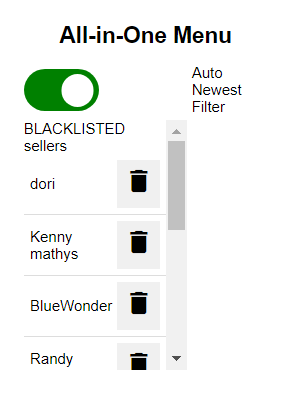
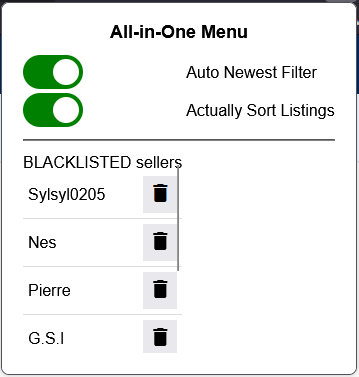
added real sort listing functionality

diff --git a/src/scripts/content-script.js b/src/scripts/content-script.js
@@ -1,39 +1,120 @@
-async function removeListings() {
-  let viewListing = document.getElementsByClassName(
-    "hz-Listings hz-Listings--list-view"
-  )[0];
+const ul = document.querySelector(".hz-Listings");
 
-  if (viewListing == null) {
-    // elements not loaded yet
-    return;
-  }
+// make sure to dynamically set the listings back to white when they are removed from the blaclist
+chrome.runtime.onMessage.addListener((message) => {
+  if (message.command === "removeFromBlacklist") {
+    const receivedSellerName = message.sellerName;
 
-  let allListings = Array.from(
-    viewListing.getElementsByClassName("hz-Listing")
-  );
+    // Select all the listings that might have been marked red due to this seller
+    const listings = ul.querySelectorAll("li.hz-Listing");
+    for (let li of listings) {
+      if (li.offsetParent === null || li.style.backgroundColor == "white") {
+        continue; // Skip if the listing is invisible or already white
+      }
 
-  for (const listing of allListings) {
-    addBlackListSellerButton(listing);
-
-    if (await isAd(listing)) {
-      listing.style.backgroundColor = "red";
-    } else if (listing.style.backgroundColor === "red") {
-      listing.style.backgroundColor = "white";
+      let currentListingSellerName = li.querySelector(
+        ".hz-Listing-seller-name"
+      )?.textContent;
+      if (
+        currentListingSellerName &&
+        currentListingSellerName === receivedSellerName
+      ) {
+        // Reset the background color to white
+        li.style.backgroundColor = "white";
+      }
     }
   }
+});
+
+// TODO: if reordering the page is disabled, we shouldn't have to get all the IDs and everything should go much faster
+async function initializeListingsByMenuSettings() {
+  // if actual order is enabled, add banner with notification
+  // TODO: make this toggleable
+  chrome.storage.sync.get("realSortEnabled", (data) => {
+    const realSortToggleEnabled = data.realSortEnabled;
+    if (realSortToggleEnabled) {
+      const banner = document.createElement("div");
+      banner.classList.add("reordering-banner");
+      banner.style.backgroundColor = "orange";
+      banner.textContent = "⌛ Actually reordering... (can take up to 5 secs)";
+      ul.insertBefore(banner, ul.firstChild);
+    }
+  });
+
+  let listings = ul.querySelectorAll("li.hz-Listing");
+
+  let listingsIdMap = new Map();
+
+  let invisibleListingsCounter = 0;
+  for (let li of listings) {
+    if (li.offsetParent === null) {
+      invisibleListingsCounter += 1;
+      continue; // Skip if the listing is not visible
+    }
+
+    // we add a blacklist button to the listing
+    addBlackListSellerButton(li);
+
+    // check if ad, if so, color it red
+    if (await isAd(li)) {
+      li.style.backgroundColor = "red";
+    } else if (li.style.backgroundColor === "red") {
+      li.style.backgroundColor = "white";
+    }
+
+    // get ID from href
+    const anchor = li.querySelector("div > div > a");
+    if (!anchor.href) {
+      anchor.dispatchEvent(new MouseEvent("mouseover", { bubbles: true }));
+      // wait for hover effect to load href if it's dynamic
+      await new Promise((r) => setTimeout(r, 200));
+      if (!anchor.href) {
+        console.warn(
+          `Still no href found!\nOrdering won't work if not all listings have an ID!`
+        );
+      }
+    }
+
+    // TODO: verify that every ID starts with "/m" or "/a"
+    // because if some start with m while other with a, the ordering won't work correctly
+    const match = anchor.href.match(/\/[ma](\d+)-/);
+    listingsIdMap.set(match[1], li); // Add the ID to the Set
+  }
+
+  // resort listings if enabled...
+  chrome.storage.sync.get("realSortEnabled", (data) => {
+    const realSortToggleEnabled = data.realSortEnabled;
+    if (realSortToggleEnabled) {
+      // order by ID (oldest listing first)
+      orderedListings = new Map(
+        [...listingsIdMap].sort((a, b) => String(a[0]).localeCompare(b[0]))
+      );
+      orderedListings.values().forEach((li) => {
+        // insert it right after the "ordering" banner
+        ul.insertBefore(li, ul.firstChild.nextSibling);
+      });
+
+      // DONE message in banner
+      let reorderingBanner = ul.querySelector(".reordering-banner");
+      if (reorderingBanner != null) {
+        reorderingBanner.textContent = "✅ DONE reordering!";
+        reorderingBanner.style.backgroundColor = "greenyellow";
+        // wait 3 secs before removing the banner
+        setTimeout(() => {
+          reorderingBanner.remove();
+        }, 3000);
+      }
+    }
+  });
 }
 
-// HELPER METHODS
-
+// INDIVUAL LISTING METHODS
 function addBlackListSellerButton(listingElem) {
-  let sellerInfoElem = listingElem.getElementsByClassName(
-    "hz-Listing--sellerInfo"
-  )[0];
+  // adds inplace blacklist button to the listing element
+  let sellerInfoElem = listingElem.querySelector(".hz-Listing--sellerInfo");
 
-  if (
-    sellerInfoElem.getElementsByClassName("seller-blacklist-container")[0] !=
-    null
-  ) {
+  // don't add the button if it already exists
+  if (sellerInfoElem.querySelector(".seller-blacklist-container") != null) {
     return;
   }
 
@@ -46,20 +127,40 @@ function addBlackListSellerButton(listingElem) {
   submitBlacklistLinkElem.type = "submit";
 
   submitBlacklistLinkElem.onclick = () => {
-    let sellerName = sellerInfoElem.getElementsByClassName(
-      "hz-Listing-seller-name"
-    )[0].textContent;
+    let sellerName = sellerInfoElem.querySelector(
+      ".hz-Listing-seller-name"
+    ).textContent;
+    if (!sellerName) return;
+
+    // color all listings in ul with that seller name red
+    const listings = ul.querySelectorAll("li.hz-Listing");
+    for (let li of listings) {
+      if (li.offsetParent === null) {
+        continue; // Skip if the listing is not visible
+      }
+      let currentListingSellerName = li.querySelector(
+        ".hz-Listing-seller-name"
+      )?.textContent;
+      if (
+        currentListingSellerName &&
+        currentListingSellerName === sellerName &&
+        li.style.backgroundColor != "red"
+      ) {
+        // could already be red because of it being an ad
+        // set background color to red
+        li.style.backgroundColor = "red";
+      }
+    }
     // append blacklisted seller
     chrome.storage.sync.get("blacklistedSellers", (result) => {
       let blacklistedSellers = result.blacklistedSellers || [];
 
       // prevent duplicates
-      if (blacklistedSellers.indexOf(sellerName) !== -1) {
-        return;
+      if (!blacklistedSellers.includes(sellerName)) {
+        chrome.storage.sync.set({
+          blacklistedSellers: [...blacklistedSellers, sellerName],
+        });
       }
-
-      blacklistedSellers.push(sellerName);
-      chrome.storage.sync.set({ blacklistedSellers: blacklistedSellers });
     });
   };
 
@@ -73,47 +174,25 @@ function addBlackListSellerButton(listingElem) {
   );
 }
 
-// helper methods to filter
 async function isAd(listingElem) {
   return (
     isTopAdvertentie(listingElem) || (await isSellerBlacklisted(listingElem))
   );
 }
 
-// helper method
-function getAllListingInfo() {
-  let allListings = viewListing.getElementsByClassName("hz-Listing");
-  allListings.forEach((listing, index) => {
-    console.log(
-      `i: ${index}\ntitle: ${getTitleOfListing(
-        listing
-      )}\nisTopAdvertentie: ${isTopAdvertentie(listing)}`
-    );
-  });
-}
-
-// helper methods for given elem
-function getTitleOfListing(listingElem) {
-  let title =
-    listingElem.getElementsByClassName("hz-Listing-title")[0].textContent;
-  return title;
-}
-
 function isTopAdvertentie(listingElement) {
-  const topAdvertentieText = listingElement.getElementsByClassName(
-    "hz-Listing-priority hz-Listing-priority--all-devices"
-  )[0].textContent;
+  const topAdvertentieText = listingElement.querySelector(
+    ".hz-Listing-priority.hz-Listing-priority--all-devices"
+  ).textContent;
 
   return topAdvertentieText == "Topzoekertje";
 }
 
 async function isSellerBlacklisted(listingElem) {
-  let sellerInfoElem = listingElem.getElementsByClassName(
-    "hz-Listing--sellerInfo"
-  )[0];
-  const sellerName = sellerInfoElem.getElementsByClassName(
-    "hz-Listing-seller-name"
-  )[0].textContent;
+  let sellerInfoElem = listingElem.querySelector(".hz-Listing--sellerInfo");
+  const sellerName = sellerInfoElem.querySelector(
+    ".hz-Listing-seller-name"
+  ).textContent;
 
   const res = new Promise(function (resolve, _) {
     chrome.storage.sync.get({ blacklistedSellers: [] }, function (result) {
@@ -125,4 +204,7 @@ async function isSellerBlacklisted(listingElem) {
   return bls.indexOf(sellerName) !== -1;
 }
 
-setInterval(removeListings, 500);
+// we wait a second before initializing, because an adblocker & the website might still be dynamically editing elements
+setTimeout(() => {
+  initializeListingsByMenuSettings();
+}, 1000); // TODO: on slower loading, this might even be too soon

diff --git a/src/popup/all-in-one-menu.js b/src/popup/all-in-one-menu.js
@@ -13,6 +13,40 @@ document.addEventListener("DOMContentLoaded", () => {
     });
   });
 
+  // update real sort when toggle is clicked
+  const realSortToggle = document.getElementById("real-sort-toggle");
+  realSortToggle.addEventListener("change", () => {
+    const isRealSortEnabled = realSortToggle.checked;
+
+    chrome.storage.sync.set({ realSortEnabled: isRealSortEnabled }, () => {
+      // TODO: make the alert fit the menu when it appears / cleaner
+
+      // get tr element which contains a real-sort-toggle id element
+      const toggleElem = document
+        .querySelector("#real-sort-toggle")
+        .closest("tr");
+      let refreshAlertBanner = document.createElement("div");
+      let trElem = document.createElement("tr");
+      trElem.classList.add("tr-alert-banner");
+      let tdElem = document.createElement("td");
+      // colspan 2 to make it full width
+      tdElem.setAttribute("colspan", "2");
+      tdElem.classList.add("td-alert-banner");
+      refreshAlertBanner.classList.add("refresh-alert-banner");
+      refreshAlertBanner.style.backgroundColor = "orange";
+      refreshAlertBanner.textContent =
+        "Refresh the page to apply the sorting changes!";
+      toggleElem.parentNode.insertBefore(
+        refreshAlertBanner,
+        toggleElem.nextSibling
+      );
+      // show this banner only 3 seconds
+      setTimeout(() => {
+        refreshAlertBanner.remove();
+      }, 3000);
+    });
+  });
+
   // set blacklisted sellers list
 
   chrome.storage.sync.get("blacklistedSellers", (res) => {
@@ -26,6 +60,20 @@ document.addEventListener("DOMContentLoaded", () => {
       newBlacklistedSellerElem.textContent = sellerName;
       const removeBtn = document.createElement("button");
       removeBtn.onclick = () => {
+        // make background of listing white again if it was red on 2dehands
+        // we're only sending the message to tabs that have the listener to handle these messages
+        chrome.tabs.query(
+          { url: "https://www.2dehands.be/q/*" },
+          function (tabs) {
+            for (let tab of tabs) {
+              chrome.tabs.sendMessage(tab.id, {
+                command: "removeFromBlacklist",
+                sellerName: sellerName,
+              });
+            }
+          }
+        );
+
         // remove seller by name
         chrome.storage.sync.get("blacklistedSellers", (result) => {
           let blacklistedSellers = result.blacklistedSellers;
@@ -49,7 +97,7 @@ document.addEventListener("DOMContentLoaded", () => {
     });
   });
 
-  // set slider
+  // set filter toggle
   chrome.storage.sync.get("listenerEnabled", (data) => {
     const isFilteringEnabled = data.listenerEnabled;
     if (isFilteringEnabled == null) {
@@ -65,6 +113,25 @@ document.addEventListener("DOMContentLoaded", () => {
     } else {
       // update slider
       newestFilterToggle.checked = isFilteringEnabled;
+    }
+  });
+
+  // set real order toggle
+  chrome.storage.sync.get("realSortEnabled", (data) => {
+    const isRealOrderEnabled = data.realSortEnabled;
+    if (isRealOrderEnabled == null) {
+      // set default value if not found
+      const realSortEnabledDefaultValue = false;
+      chrome.storage.sync.set(
+        { realSortEnabled: realSortEnabledDefaultValue },
+        () => {
+          // update slider
+          realSortToggle.checked = realSortEnabledDefaultValue;
+        }
+      );
+    } else {
+      // update slider
+      realSortToggle.checked = isRealOrderEnabled;
     }
   });
 });

diff --git a/src/popup/all-in-one-menu.html b/src/popup/all-in-one-menu.html
@@ -21,6 +21,20 @@
         </tr>
         <tr>
           <td>
+            <div>
+            <label class="switch">
+              <input type="checkbox" id="real-sort-toggle" />
+              <span class="slider round"></span>
+            </label>
+          </td>
+          <td>Actually Sort Listings</td>
+        </div>
+        </tr>
+        <tr>
+          <td colspan="2"><hr></td>
+        </tr>
+        <tr>
+          <td>
           <div>
             <ul class="blacklisted sellers">
               BLACKLISTED sellers

diff --git a/README.md b/README.md
@@ -6,6 +6,8 @@ Extension for [2dehands](www.2dehands.be) which makes it easier to browse listin
 - [x] toggle auto order by new-old
     > sometimes, when browsing multiple listings for a while, you have to reselect the "sort by" option to sort by "new-old".  
     > This toggle ensures that whenever you press Enter to query a listing, the sort option is applied.
+- [x] actually sort listings
+    > 2dehands tends to put ad/paid listings first. This toggle ensures that the actually latest listings get put first.
 - [x] filters out [Ad listings](#Ad-listing) and [blacklisted sellers](#blacklist)
     > these are colored in red
 
